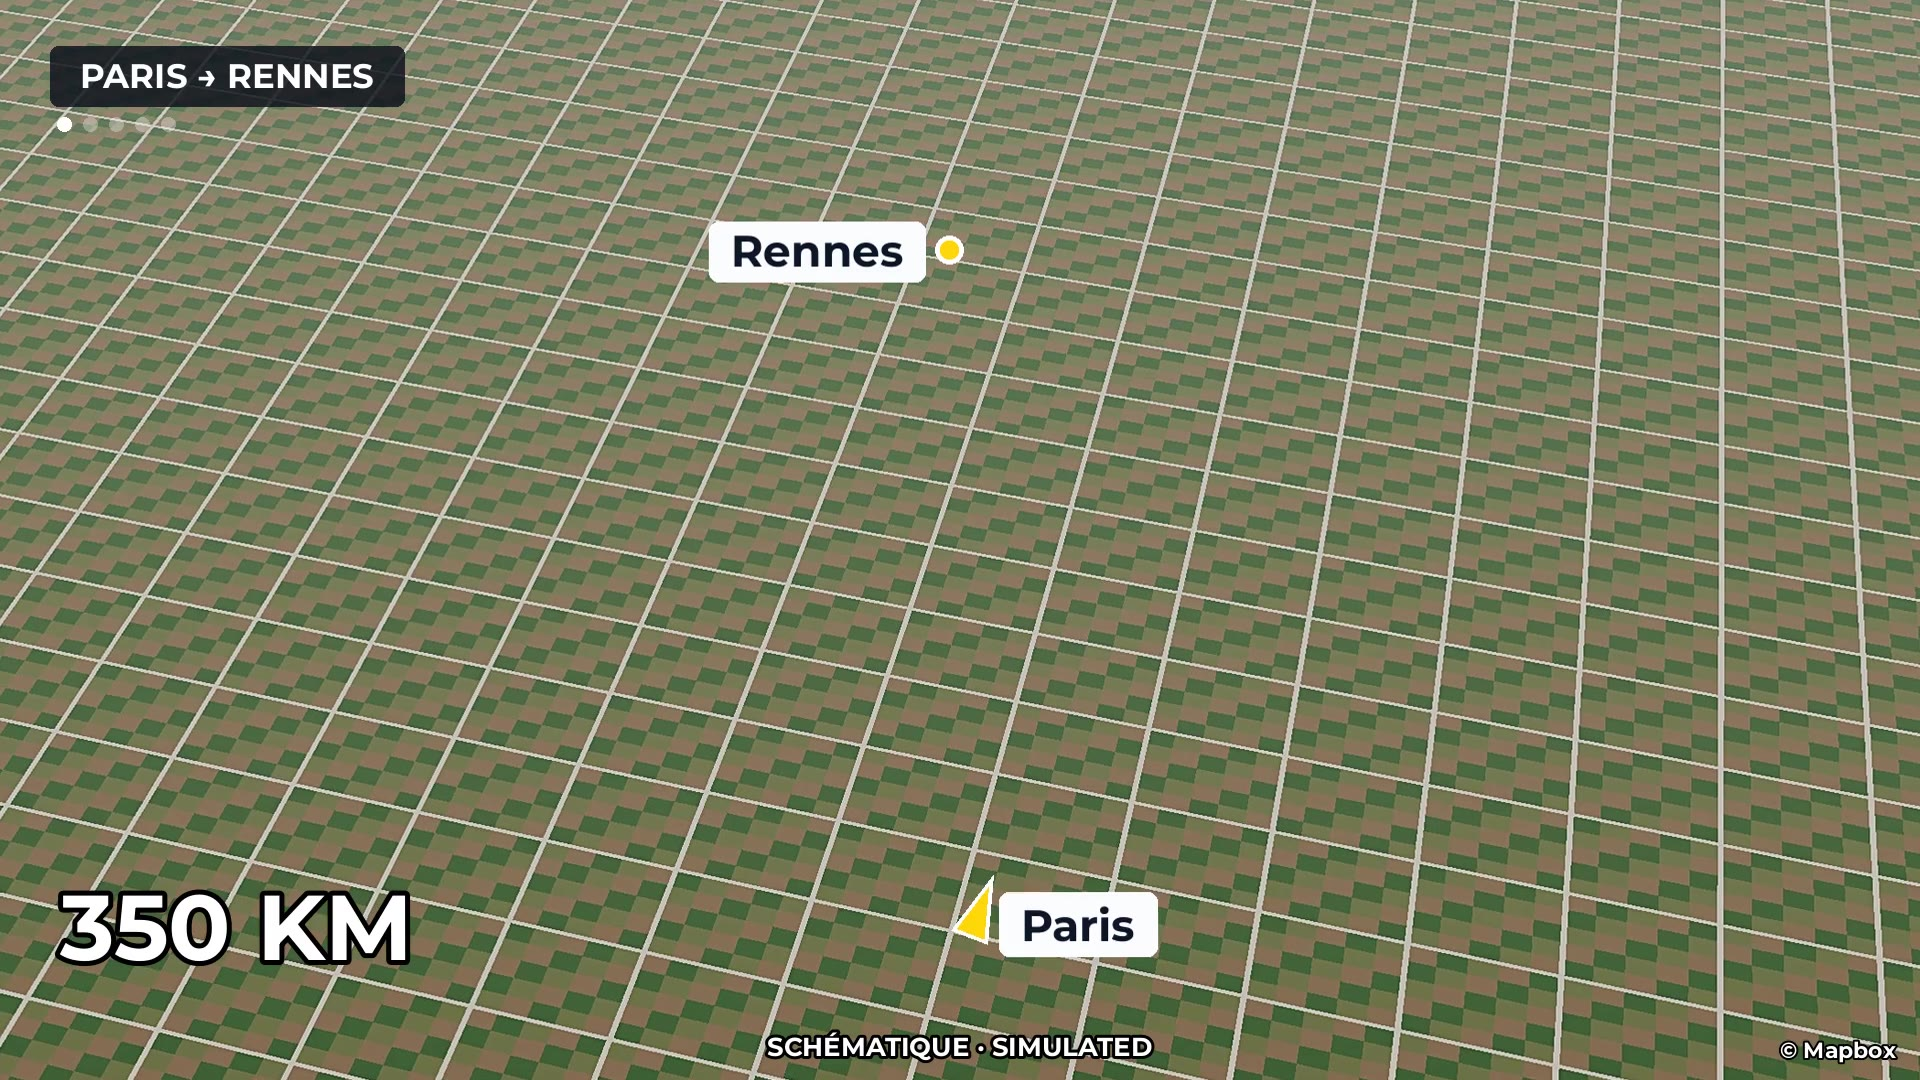
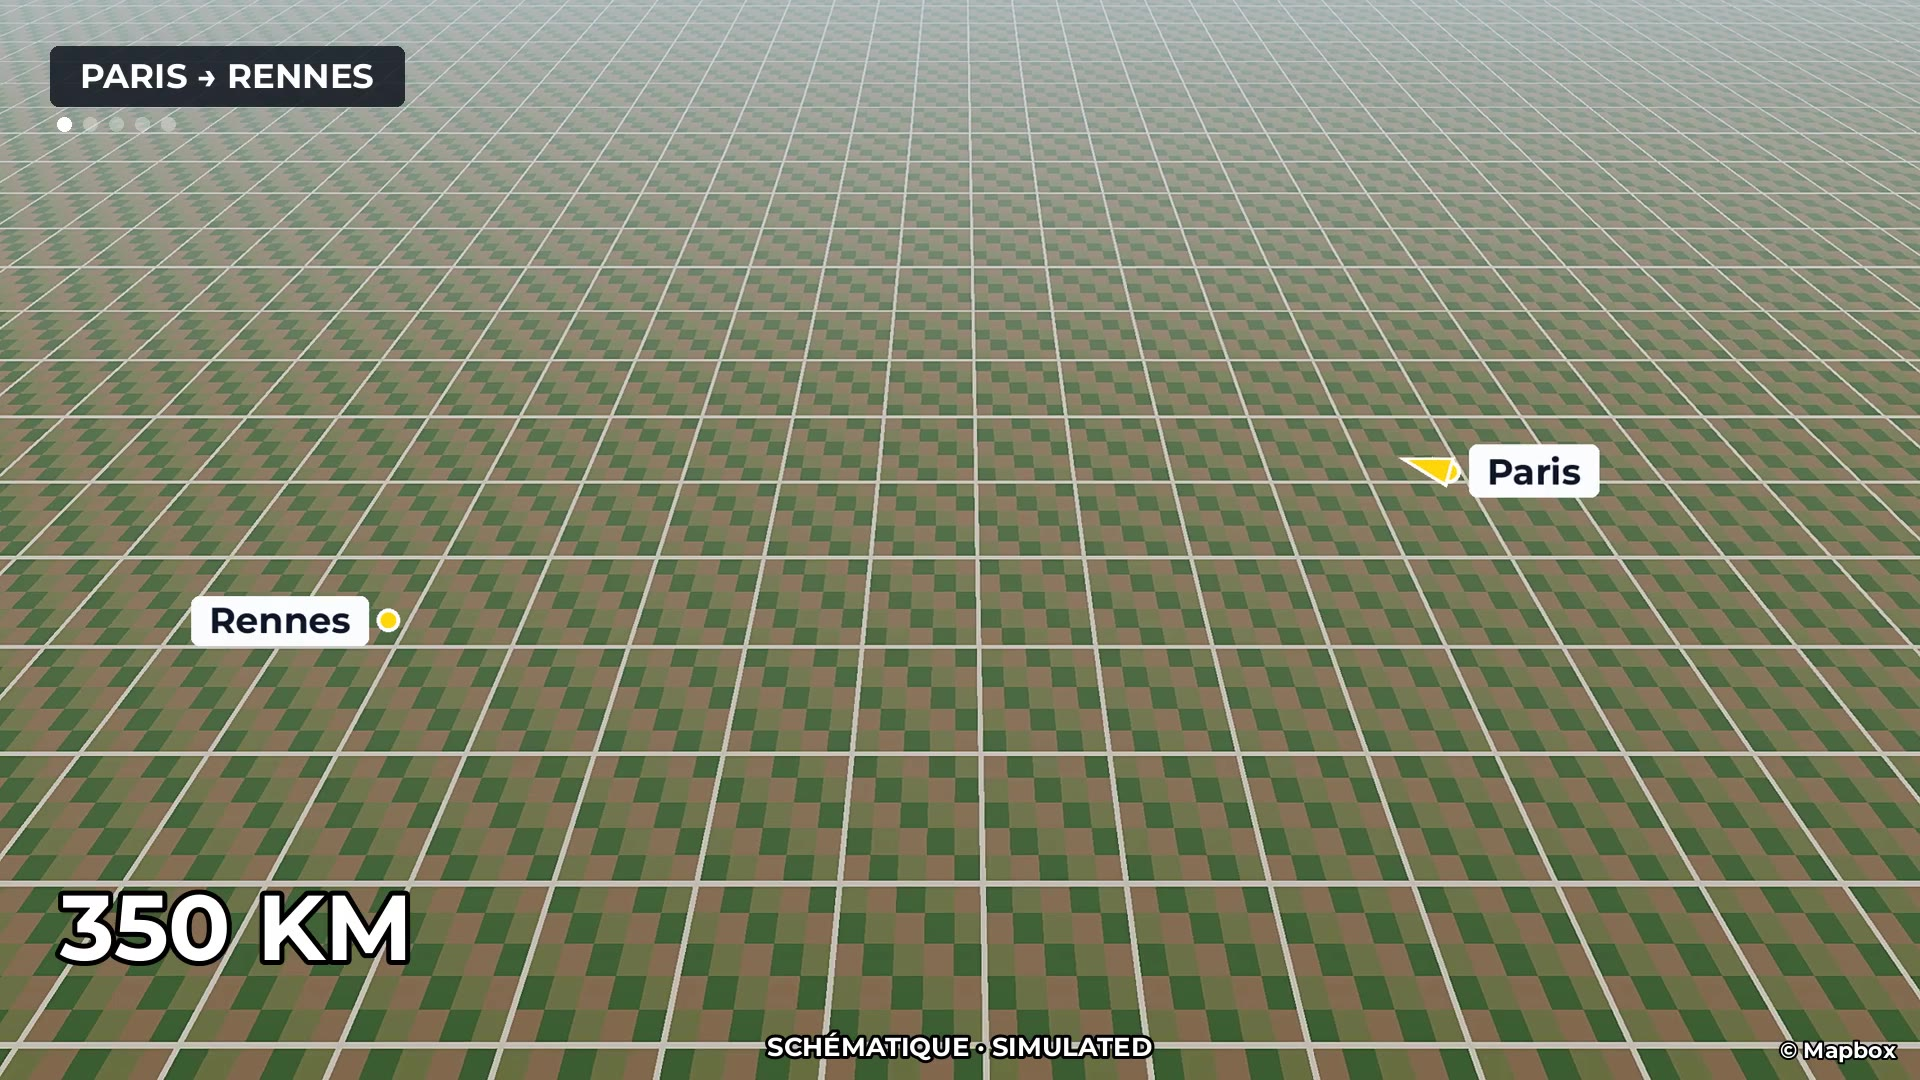
Eğik görünüm: kuzey yukarıda (rota yönü doğru), eğim 60 + sis, yanıt tanılaması, eski klipler yeniden çizilir
Claude-Session: https://claude.ai/code/session_01VN5ST4B42QsgKhNGLdND7A

diff --git a/tests/test_satellite_oblique.py b/tests/test_satellite_oblique.py
@@ -92,14 +92,16 @@ def test_static_request_shape_and_errors():
     assert '422' in str(error.value) and 'Eğik görünüm' in str(error.value)
 
 
-def test_camera_puts_the_destination_ahead():
-    points = [(2.35, 48.86), (-1.674, 48.111)]
+def test_camera_keeps_north_up_so_the_route_runs_the_right_way():
+    points = [(5.381, 43.297), (7.266, 43.703)]  # Marseille → Nice: west → east along the coast
     lon, lat, zoom, bearing, pitch = satellite_map.oblique_view(points, route=True)
-    assert 240 < bearing < 280 and pitch == 40  # Paris → Rennes heads west
+    assert bearing == 0 and pitch == 60
     project = satellite_map.camera(lon, lat, zoom, bearing, pitch, 1280, 720)
     (x0, y0), (x1, y1) = project(*points[0]), project(*points[1])
-    assert y1 < y0 and abs(x1 - x0) < 60  # Rennes straight ahead, “into” the picture
+    assert x1 - x0 > 300 and abs(y1 - y0) < (x1 - x0) / 3  # Nice to the right of Marseille, not on top
     assert all(.15 * 1280 < x < .85 * 1280 and .15 * 720 < y < .85 * 720 for x, y in ((x0, y0), (x1, y1)))
+    near, far = project(lon, lat - .3), project(lon, lat + .3)
+    assert (near[1] - 360) > 1.2 * (360 - far[1])  # perspective: the far half is squeezed
     flat = satellite_map.camera(2.35, 48.86, 8, 0, 0, 1280, 720)
     assert flat(2.35, 48.86) == (640, 360) and flat(3, 48.86)[0] > 640 and flat(2.35, 49.2)[1] < 360
 
@@ -173,10 +175,9 @@ def test_render_diagnostics_name_the_view_and_the_request_without_the_key(tmp_pa
     provider = MapboxSatelliteProvider('pk.secret-key-98765', 'https://api.mapbox.com/v4/mapbox.satellite/{z}/{x}/{y}@2x.jpg90', static_url=URL, transport=mapbox_like(seen))
     render('arrow', 'Paris > Rennes | 350 km', tmp_path, monkeypatch, provider=provider)
     static = [r for r in seen if '/static/' in r.url.path]
-    assert len(static) == 1 and static[0].url.path.endswith(',40.0/1280x720@2x')  # pitch 40 really sent
-    bearing = float(static[0].url.path.split('/static/')[1].split(',')[3])
-    assert 240 < bearing < 280  # the route's direction (Paris → Rennes: west)
-    assert relief.LAST_INFO.startswith('Harita (Paris → Rennes): eğik görünüm (eğim 40°')
+    assert len(static) == 1 and static[0].url.path.endswith(',0.0,60.0/1280x720@2x')  # north up, pitch 60 really sent
+    assert relief.LAST_INFO.startswith('Harita (Paris → Rennes): eğik görünüm (eğim 60°, açı 0°, kuzey yukarıda)')
+    assert 'yanıt: 200 ' in relief.LAST_INFO and '×' in relief.LAST_INFO
     assert '/styles/v1/mapbox/satellite-v9/static/' in relief.LAST_INFO and 'access_token=pk.***8765' in relief.LAST_INFO
     assert 'secret-key' not in relief.LAST_INFO
     render('arrow', 'Paris > Rennes', tmp_path, monkeypatch, provider=provider, oblique=False)
@@ -198,3 +199,13 @@ def test_connection_button_also_checks_the_oblique_request():
     assert 'secret-key' not in str(bad)
     off = mapbox_check({**config, 'oblique': False}, transport=mapbox_like(static_status=403))
     assert off['status'] == 'Hazır' and 'Eğik görünüm kapalı' in off['message']
+
+
+def test_marseille_to_nice_runs_east_on_the_tilted_view(tmp_path, monkeypatch):
+    scene, frame, provider = render('arrow', 'Marseille > Nice | 200 km', tmp_path, monkeypatch, at=3.9)
+    assert next(e for e in scene['elements'] if e['type'] == 'relief')['props']['camera'] == 2
+    assert provider.calls[0][3] == 0 and provider.calls[0][4] == 60  # bearing 0 (north up), pitch 60
+    ys, xs = np.nonzero((frame[..., 0] > 200) & (frame[..., 1] > 170) & (frame[..., 2] < 90))
+    assert xs.max() - xs.min() > 2 * (ys.max() - ys.min())  # the yellow line runs left → right, not upward
+    top, bottom = frame[:120, 600:1300].mean(), frame[700:900, 600:1300].mean()
+    assert top > bottom + 25  # haze toward the far edge

diff --git a/app/motion/satellite_map.py b/app/motion/satellite_map.py
@@ -209,8 +209,10 @@ def oblique_view(points, *, route=False):
     ys = [merc_y(p[1]) for p in points]
     mid = (min(ys) + max(ys)) / 2
     lat = math.degrees(math.atan(math.sinh(math.pi * (1 - 2 * mid))))
-    bearing = round(azimuth(points[0], points[-1])) if route else 0  # the route runs “into” the picture
-    pitch = 40 if route else 35
+    # North stays up (bearing 0): Marseille → Nice runs left to right as on any map. Turning the camera
+    # toward the travel direction put Nice “on top” and read as a wrong direction.
+    bearing = 0
+    pitch = 60 if route else 55  # the API's maximum (60): on a flat satellite photo less tilt hardly shows
     w, h = SIZE
     zoom = 12.
     for _ in range(6):
@@ -242,5 +244,15 @@ def oblique(points, width, height, *, route=False, target=None):
         spot = project(plon, plat)
         if spot is None: return (width / 2, -height)  # behind the horizon: off the top
         return spot[0] * sx, spot[1] * sy
-    picture = picture.resize((width, height), Image.LANCZOS).filter(ImageFilter.UnsharpMask(2, 50, 3))
-    return picture, xy, getattr(source, 'attribution', ''), {'zoom': zoom, 'bearing': bearing, 'pitch': pitch, 'request': getattr(source, 'last_request', '')}
+    received = f'{getattr(source, "last_response", "")} {picture.size[0]}×{picture.size[1]}'.strip()
+    picture = haze(picture.resize((width, height), Image.LANCZOS).filter(ImageFilter.UnsharpMask(2, 50, 3)))
+    return picture, xy, getattr(source, 'attribution', ''), {'zoom': zoom, 'bearing': bearing, 'pitch': pitch,
+                                                             'request': getattr(source, 'last_request', ''), 'response': received}
+
+
+def haze(picture):
+    """Light atmospheric haze toward the far (top) edge: depth reads at a glance."""
+    w, h = picture.size
+    alpha = np.clip(1 - np.arange(h) / (h * .42), 0, 1) ** 1.6 * 150
+    mask = Image.fromarray(np.repeat(alpha[:, None], w, axis=1).astype('uint8'), 'L')
+    return Image.composite(Image.new('RGB', (w, h), (196, 212, 228)), picture, mask)

diff --git a/app/motion/relief.py b/app/motion/relief.py
@@ -413,7 +413,7 @@ def render(scene, output, ffmpeg):
                 base, oblique_xy, info['credit'], info['camera'] = satellite_map.oblique(points, cw, ch, route=bool(info['arrow']))
                 info.update(satellite=True, oblique=True)
                 c = info['camera']
-                LAST_INFO = f'Harita ({name}): eğik görünüm (eğim {c["pitch"]:g}°, açı {c["bearing"]:g}°) — istek: {c["request"]}'
+                LAST_INFO = f'Harita ({name}): eğik görünüm (eğim {c["pitch"]:g}°, açı {c["bearing"]:g}°, kuzey yukarıda) — istek: {c["request"]} — yanıt: {c["response"]}'
                 end = info['arrow'][-1][:2] if info['arrow'] else ((points[0][0] + points[1][0]) / 2, (points[0][1] + points[1][1]) / 2)
                 info['target_px'] = oblique_xy(*end)
             except Exception as error:  # SatelliteError (Turkish) or anything unexpected: never stops the clip
@@ -520,7 +520,7 @@ def frame(base, info, t, duration, path):
     drift = (cw - w) * .5 * (.35 + .3 * p) if info['mode'] not in ('zoom', 'compare') else (cw - w) / 2  # gentle sideways drift (compare: still)
     left, top = drift, (ch - h) / 2 - ((ch - h) * .08 * (p - .5) if info['mode'] != 'compare' else 0)
     if info.get('oblique'):  # wide at the start, close to the target at the end
-        w, h = cw / MARGIN * (1 - .4 * p), ch / MARGIN * (1 - .4 * p)
+        w, h = cw * (1 - .45 * p), ch * (1 - .45 * p)  # the whole tilted picture first (far edge visible)
         tx, ty = info.get('target_px') or (cw / 2, ch / 2)
         x, y = cw / 2 + (tx - cw / 2) * .85 * p, ch / 2 + (ty - ch / 2) * .85 * p
         left, top = min(max(0, x - w / 2), cw - w), min(max(0, y - h / 2), ch - h)

diff --git a/app/providers/satellite.py b/app/providers/satellite.py
@@ -85,6 +85,7 @@ class MapboxSatelliteProvider(SatelliteProvider):
         except httpx.HTTPError:
             raise SatelliteError('network_error', MESSAGES['network_error']) from None
         status = response.status_code
+        self.last_response = f'{status} {response.headers.get("content-type", "?")} {len(response.content)} bayt'
         if status in (401, 403): raise SatelliteError('key_rejected', MESSAGES['key_rejected'])
         if status == 429: raise SatelliteError('rate_limit', MESSAGES['rate_limit'])
         if status == 404: raise SatelliteError('not_found', MESSAGES['not_found'])

diff --git a/app/motion/templates_extra.py b/app/motion/templates_extra.py
@@ -86,7 +86,8 @@ def where(name):
 def satellite_props(language):
     """Scene props of the satellite map style (+ Ayarlar → Mapbox → Eğik görünüm)."""
     from app.providers.satellite import oblique
-    return {'theme': 'satellite', 'lang': language, **({'view': 'oblique'} if oblique() else {})}
+    # camera 2: north up, pitch 60, haze — older tilted clips (camera turned along the route) are drawn again
+    return {'theme': 'satellite', 'lang': language, **({'view': 'oblique', 'camera': 2} if oblique() else {})}
 
 
 def near_each_other(stops):

diff --git a/MAPBOX_INTEGRATION_NOTES.md b/MAPBOX_INTEGRATION_NOTES.md
@@ -15,9 +15,9 @@ Kullanım: Video ekranı → **Harita stili → Uydu görüntüsü**. Anahtar Ay
 - Ayarlar → Mapbox → **“Eğik görünüm”** kutusu (varsayılan açık). Açıkken [OK], [ROTA], [HARİTA], [BÖLGE], [YAKINLAŞ] sahnelerinin her biri için **tek istek**:
   `GET https://api.mapbox.com/styles/v1/mapbox/satellite-v9/static/{lon},{lat},{zoom},{bearing},{pitch}/{width}x{height}@2x?access_token=<anahtar>`
   (adres deseni proje sahibinin verdiği biçimdir; Ayarlar → Mapbox → “Eğik görünüm adresi” alanından düzeltilebilir).
-- Kullanılan değerler: 1280×720 (@2x = 2560×1440), eğim (pitch) 40 (rota/ok) veya 35 (bölge/yer), açı (bearing) rotanın yönü (varış noktası “ileride” görünür), yakınlık tüm noktalar resmin ~%60'ına sığacak şekilde. Kodda sınırlar: pitch 0–60, zoom 0–22, en/boy ≤ 1280 (doğrulanmadı; API de denetler).
+- Kullanılan değerler: 1280×720 (@2x = 2560×1440), eğim (pitch) 60 (rota/ok) veya 55 (bölge/yer), açı (bearing) 0 — kuzey yukarıda, yönler haritadaki gibi, yakınlık tüm noktalar resmin ~%60'ına sığacak şekilde. Kodda sınırlar: pitch 0–60, zoom 0–22, en/boy ≤ 1280 (doğrulanmadı; API de denetler).
 - Çizgi ve isimler, Mapbox GL kamerasının yaklaşık modeliyle (36,87° görüş açısı, 512 px dünya karoları) resmin üstüne çizilir; gerçek görüntüde birkaç piksel kayma olabilir.
-- Kamera: sahne başında geniş görünüm, sonunda varış noktasına %40 yakınlaşma.
+- Kamera: sahne tüm eğik resimle başlar, sonunda varış noktasına %45 yakınlaşır; uzak (üst) kenarda hafif sis.
 - İstek başarısızsa (401/403, 404, 422, 429, ağ hatası, okunamayan resim): Türkçe uyarı “Eğik görünüm alınamadı (…); düz uydu görünümü kullanıldı.” ve eski düz karo görünümü; o da olmazsa koyu harita.
 - Kutu kapalıyken yalnız düz karo görünümü (eski davranış) kullanılır.
 - Tanılama: render uyarılarında her harita için “Harita (…): eğik görünüm (eğim …°, açı …°) — istek: <adres>?access_token=pk.***abcd” satırı; “Bağlantıyı Test Et” eğik isteği de dener ve adresi (anahtar gizli) gösterir.

diff --git a/docs/STATUS.md b/docs/STATUS.md
@@ -1,5 +1,13 @@
 # AI Video Studio — Durum
 
+## 2026-10-14 (10) — Eğik görünüm: kuzey yukarıda, daha belirgin eğim
+
+- Yön hatasının nedeni: koordinatlar doğruydu (Marseille 5,38°D, Nice 7,27°D). Eğik görünüm kamerayı rota yönüne çeviriyordu (açı 73°), bu yüzden Nice üstte görünüyordu. Artık açı 0 (kuzey yukarıda): Marseille → Nice soldan sağa çizilir.
+- Bu dönmüş görüntü, gerçek render'da Static Images isteğinin kullanıldığını da gösteriyor (düz görünüm hiç döndürmez). Eğim (40°) düz uydu fotoğrafında ve kırpılmış karede neredeyse fark edilmiyordu. Artık eğim 60° (API sınırı), sahne tüm eğik resimle başlıyor ve uzak kenara hafif sis ekleniyor.
+- Eski eğik klipler yeniden çizilir (sahne anahtarında `camera: 2`).
+- Render uyarısındaki “Harita (…)” satırı artık yanıtı da yazar: durum kodu, içerik türü, bayt ve resim boyutu.
+- Örnek kareler: `docs/satellite_samples/egik_ok_marseille_nice_basi.jpg` / `_sonu.jpg`. Gerçek Mapbox ile denenmedi (bu ortamdan api.mapbox.com engelli, anahtar yok); kareler sahte, yapay manzara resmidir.
+
 ## 2026-10-14 (9) — Eğik görünüm tanılaması
 
 - Uygulamanın gerçek bağlantılarıyla (yalnız HTTP sahte) iz sürüldü: “Eğik görünüm” açıkken medya işi Static Images API adresini kullanıyor; eğim 40°, açı rota yönünde (Paris → Rennes ≈ 256°) gidiyor. Düz karo adresine düşme yalnız istek hata verirse oluyor.
